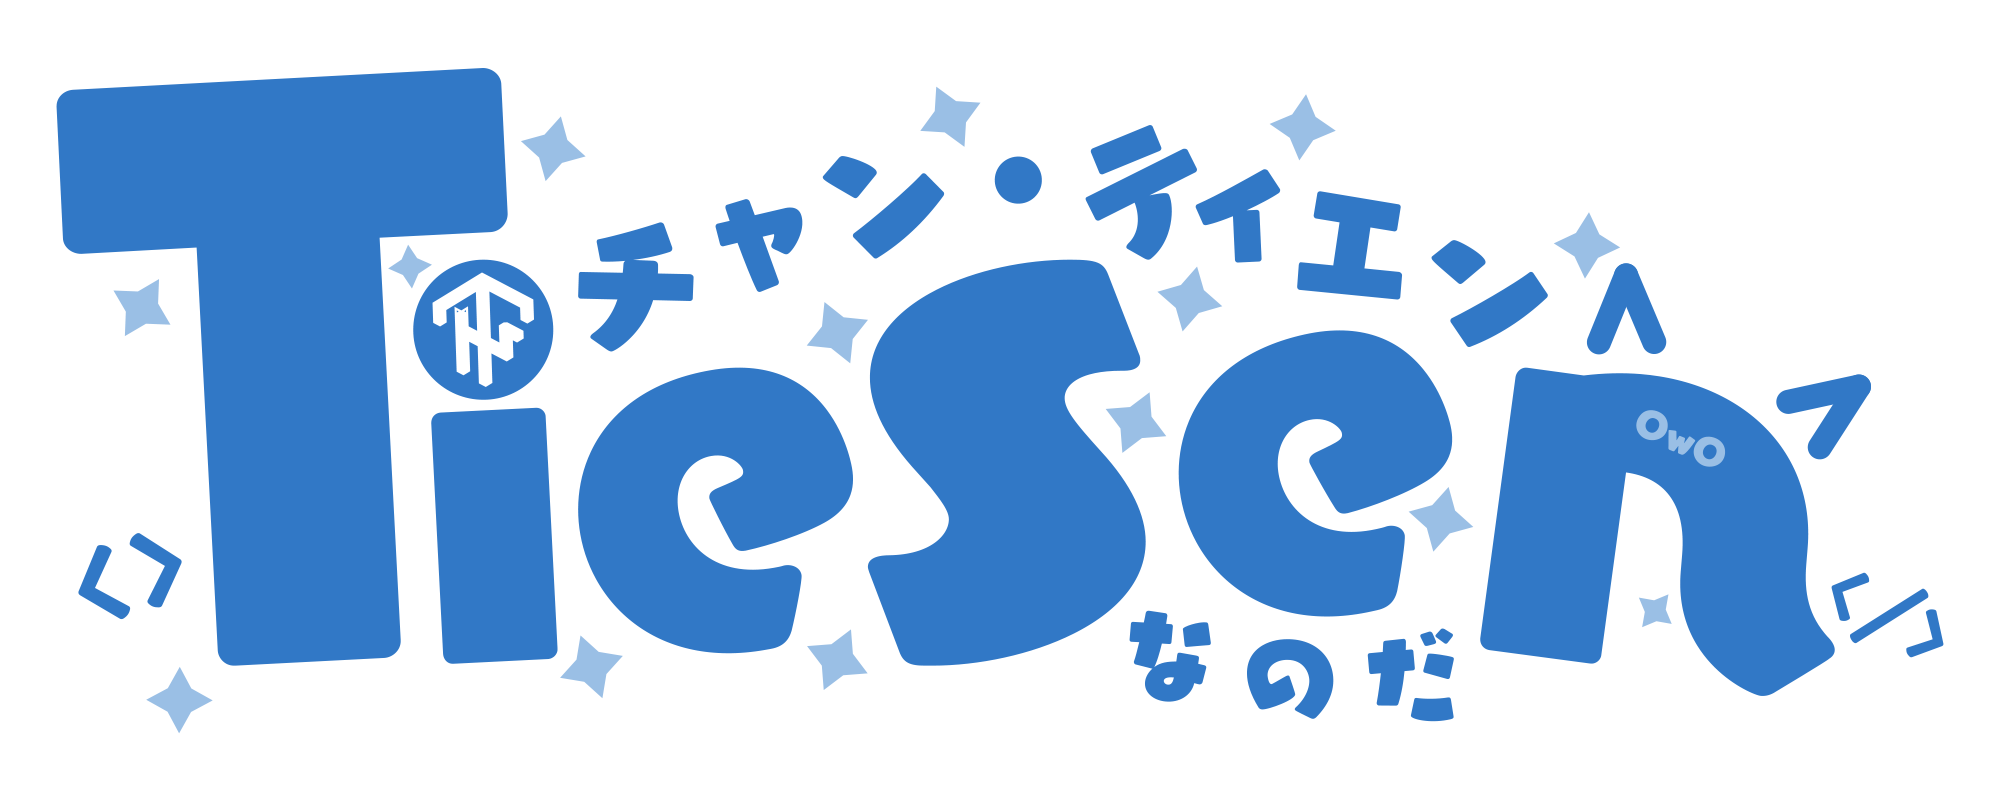
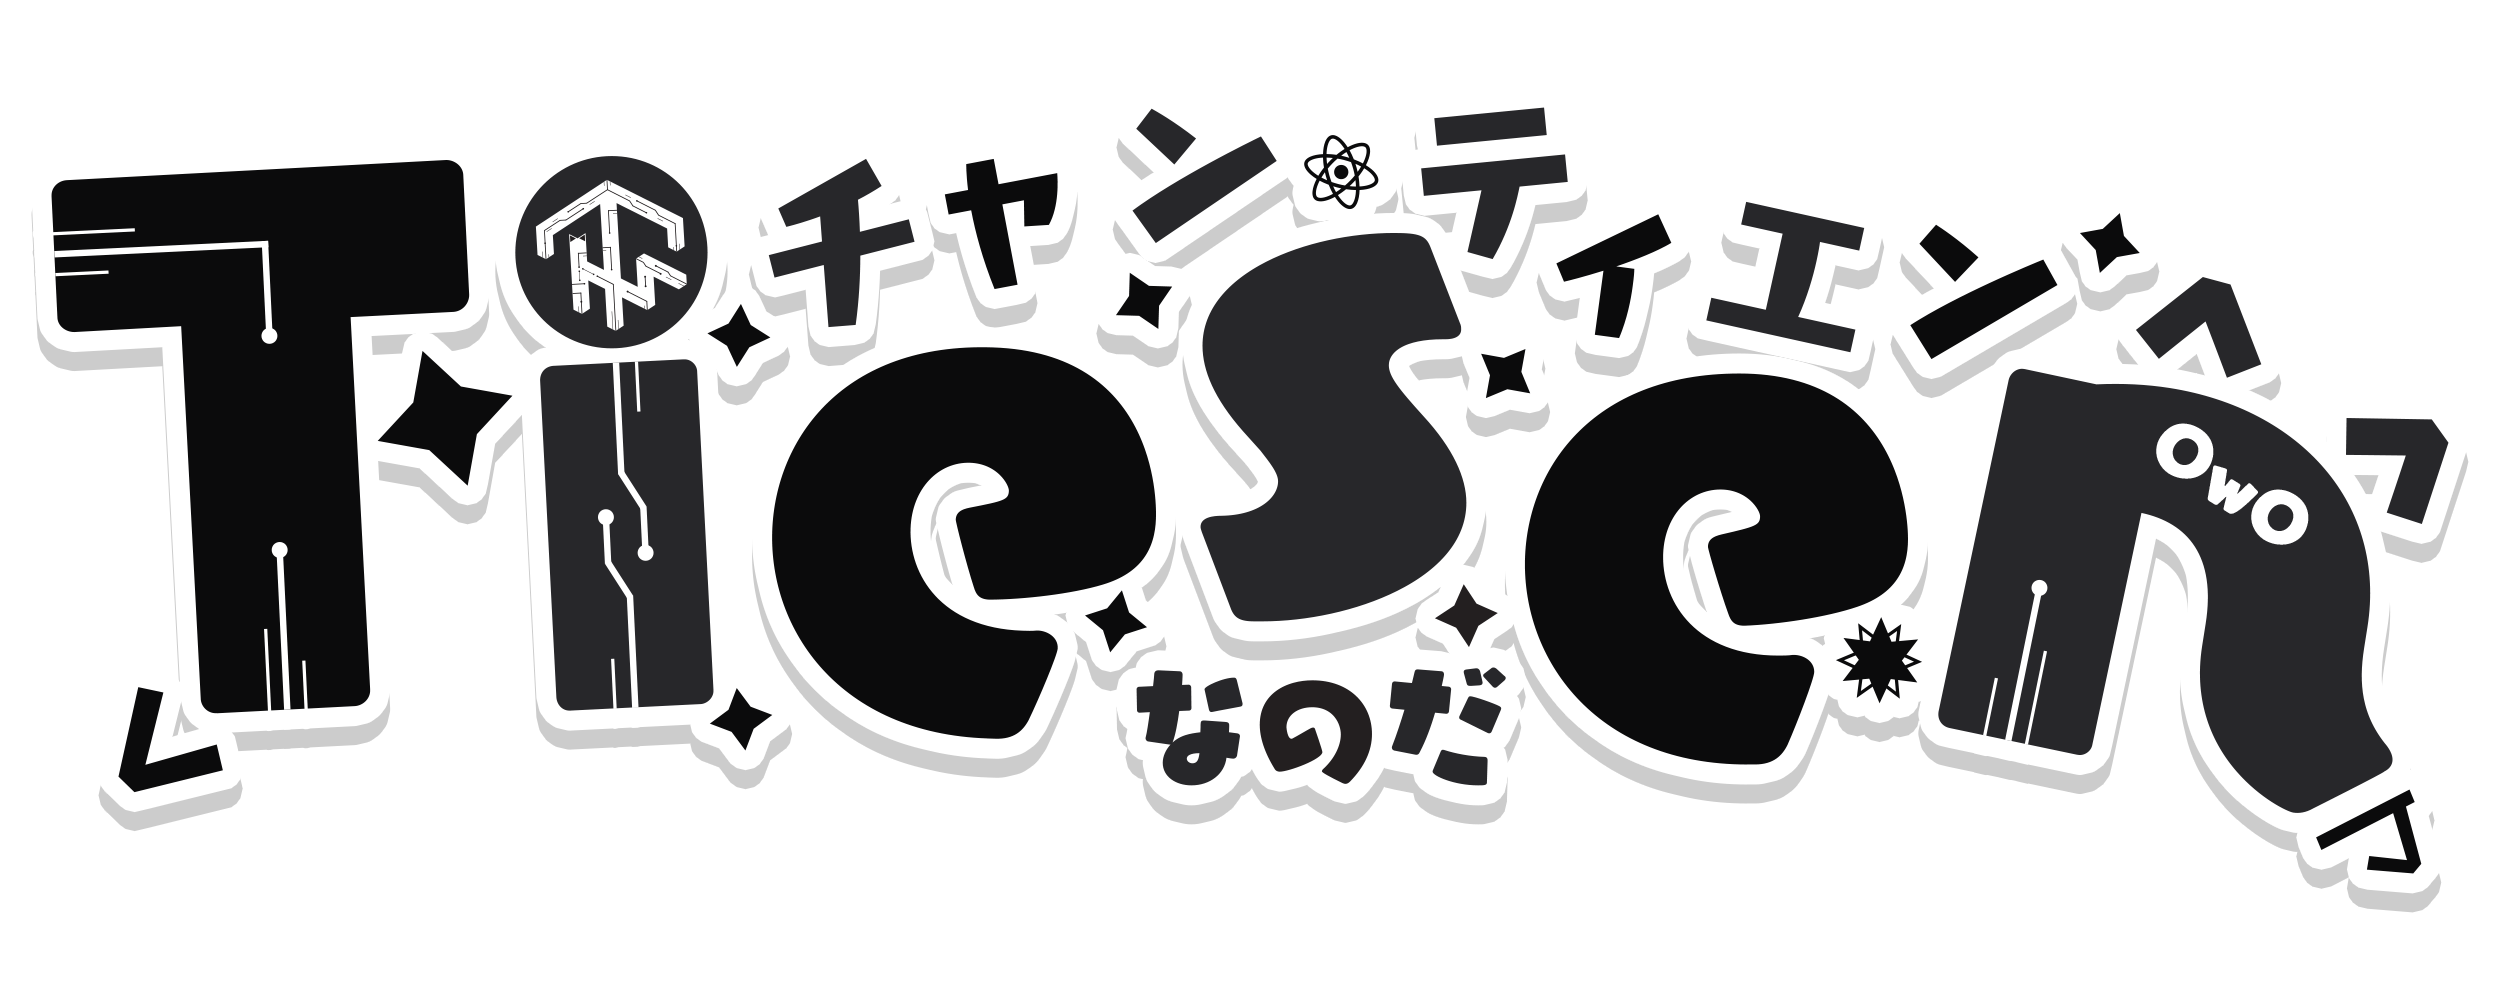
feat: update design and metadata handling
- Added new design images and updated their usage in components
- Enhanced metadata generation for blog and 404 pages
- Removed unused styles and images
- Updated dependencies in package.json

diff --git a/app/(server)/og/route.tsx b/app/(server)/og/route.tsx
@@ -1,0 +1,40 @@
+import { ImageResponse } from 'next/og'
+import type { NextRequest } from 'next/server'
+
+import { getBaseUrl } from '@/lib/site'
+
+interface Props {
+  params: {
+    title?: string
+    desc?: string
+  }
+}
+
+export const runtime = 'edge'
+
+export const GET = async (_: NextRequest, { params }: Props): Promise<ImageResponse> => {
+  const title = params.title ?? 'Tiesen'
+  const description = params.desc ?? 'My personal website.'
+
+  const style = {
+    width: '33.333%',
+    marginRight: '2rem',
+    filter: 'invert(1)',
+    WebkitFilter: 'invert(1)',
+  }
+
+  return new ImageResponse(
+    (
+      <div tw="relative w-full h-full px-28 flex items-center justify-center bg-black text-white">
+        {/*  eslint-disable-next-line @next/next/no-img-element */}
+        <img alt="Tiesen" src={`${getBaseUrl()}/imgs/logo.svg`} style={style} />
+
+        <div tw="w-2/3 flex flex-col">
+          <h2 tw="text-6xl capitalize">{title}</h2>
+          <p tw="text-2xl">{description}</p>
+        </div>
+      </div>
+    ),
+    { width: 1200, height: 630 },
+  )
+}

diff --git a/components/footer.tsx b/components/footer.tsx
@@ -8,7 +8,7 @@ export const Footer: React.FC = () => (
   <footer className="border-t py-12 lg:py-16">
     <div className="container grid grid-cols-1 gap-4 pb-8 md:grid-cols-3">
       <Link href="/" className="flex items-center gap-2 place-self-start text-xl font-bold">
-        <div className="size-10 rounded-lg border-2 p-2">
+        <div className="size-12 rounded-lg border p-2">
           <Image
             src="/imgs/logo.svg"
             alt="Tiesen"
@@ -39,7 +39,7 @@ export const Footer: React.FC = () => (
             href={social.href}
             target="_blank"
             rel="noopener noreferrer"
-            className="transition-colors ease-linear hover:text-yuki"
+            className="transition-opacity ease-linear hover:opacity-50"
           >
             <social.icon />
           </a>
@@ -51,7 +51,7 @@ export const Footer: React.FC = () => (
       </ul>
     </div>
 
-    <hr className="border-1 mx-auto w-4/5" />
+    <hr />
 
     <div className="container flex items-center justify-center pt-8">
       <p className="text-muted-foreground">

diff --git a/components/landing/about-section/view-more.tsx b/components/landing/about-section/view-more.tsx
@@ -4,17 +4,13 @@ import Link from 'next/link'
 export const ViewMore: React.FC = () => (
   <div className="grid grid-cols-1 gap-4 text-xl font-bold capitalize md:grid-cols-2">
     {['projects', 'blog'].map((tab) => (
-      <Link
-        href={`/${tab as 'projects' | 'blog'}`}
-        key={tab}
-        className="group flex items-center text-yuki"
-      >
+      <Link href={`/${tab as 'projects' | 'blog'}`} key={tab} className="group flex items-center">
         {tab}
 
         <div className="ml-2 h-[2px] flex-grow">
-          <div className="h-full w-0 bg-yuki transition-all ease-linear group-hover:w-full" />
+          <div className="h-full w-0 bg-primary transition-all ease-linear group-hover:w-full" />
         </div>
-        <ChevronRightIcon className="-ml-4 text-yuki opacity-0 transition-opacity ease-linear group-hover:opacity-100" />
+        <ChevronRightIcon className="-ml-4 opacity-0 transition-opacity ease-linear group-hover:opacity-100" />
       </Link>
     ))}
   </div>

diff --git a/app/(main)/projects/page.tsx b/app/(main)/projects/page.tsx
@@ -16,6 +16,7 @@ export const metadata: Metadata = {
 
 const Page: NextPage = async () => {
   const projects = await import('@/lib/data.json').then((data) => data.projects)
+  const designs = await import('@/lib/data.json').then((data) => data.designs)
 
   return (
     <main className="container my-4 flex-1">
@@ -31,14 +32,14 @@ const Page: NextPage = async () => {
       <hr className="mx-auto my-4 w-11/12 rounded-full" />
 
       <section className="space-y-4">
-        {Array.from({ length: 5 }).map((_, i) => (
+        {designs.map(({ name, src }) => (
           <Image
-            key={`design-${i + 1}`}
-            src={`/design/${i + 1}.png`}
-            alt={`Design ${i + 1}`}
+            key={name}
+            src={src}
+            alt={name}
             className="rounded-lg object-cover shadow-lg"
-            width={1920}
-            height={1080}
+            width={3000}
+            height={1000}
           />
         ))}
       </section>

diff --git a/components/landing/home-section/buttons.tsx b/components/landing/home-section/buttons.tsx
@@ -5,13 +5,14 @@ import { Button } from '@/components/ui/button'
 export const Buttons: React.FC = () => (
   <div className="grid grid-cols-2 gap-8  *:font-bold sm:*:text-lg">
     <Button
-      className="animate-shimmer bg-[linear-gradient(110deg,var(--from),45%,var(--to),55%,var(--from))] bg-[length:200%_100%] text-white"
+      size="lg"
+      className="animate-shimmer bg-[linear-gradient(110deg,hsl(var(--primary)),45%,hsl(var(--muted-foreground)),55%,hsl(var(--primary)))] bg-[length:200%_100%] transition-colors"
       asChild
     >
       <Link href="/#cta">Contact Me</Link>
     </Button>
 
-    <Button variant="outline" asChild>
+    <Button size="lg" variant="outline" asChild>
       <Link href="/cv.pdf" target="_blank" rel="noopener noreferrer" download="cv.pdf">
         Download CV
       </Link>

diff --git a/app/(main)/opengraph-image.tsx b/app/(main)/opengraph-image.tsx
@@ -1,0 +1,29 @@
+import { getBaseUrl } from '@/lib/site'
+import { ImageResponse } from 'next/og'
+
+// Route segment config
+export const runtime = 'edge'
+
+// Image metadata
+export const alt = 'Tiesen'
+export const size = {
+  width: 1200,
+  height: 630,
+}
+
+export const contentType = 'image/png'
+
+// Image generation
+export default async function Image() {
+  const image = `${getBaseUrl()}/imgs/tiesen.png`
+
+  return new ImageResponse(
+    (
+      <div tw="w-full h-full flex justify-center items-center bg-black text-white">
+        {/* eslint-disable-next-line @next/next/no-img-element */}
+        <img src={image} alt={alt} tw="w-5/6" />
+      </div>
+    ),
+    { ...size },
+  )
+}

diff --git a/app/(main)/projects/[slug]/page.tsx b/app/(main)/projects/[slug]/page.tsx
@@ -2,6 +2,7 @@ import type { NextPage, ResolvingMetadata } from 'next'
 import { notFound } from 'next/navigation'
 
 import { getBaseUrl } from '@/lib/site'
+import Image from 'next/image'
 
 interface Props {
   params: { slug: string }
@@ -42,7 +43,7 @@ const Page: NextPage<Props> = async ({ params }) => {
         {project.stack.map((tag) => (
           <li
             key={tag}
-            className="inline-block rounded-full bg-primary px-3 py-1 text-sm font-semibold text-primary-foreground"
+            className="inline-block cursor-default rounded-full bg-primary px-3 py-1 text-sm font-semibold text-primary-foreground hover:bg-primary/80"
           >
             {tag}
           </li>

diff --git a/app/not-found.tsx b/app/not-found.tsx
@@ -4,13 +4,18 @@ import Image from 'next/image'
 
 import { Button } from '@/components/ui/button'
 
+export const metadata = {
+  title: '404',
+  description: 'Page not found',
+}
+
 const Page: NextPage = () => (
   <main className="flex h-[65dvh] flex-1 flex-col items-center justify-center gap-4">
     <Image src="/imgs/404.png" width={1920 / 2} height={1080 / 2} alt="404" />
 
     <Button
-      className="bg-yuki text-xl font-bold text-white transition-transform ease-linear hover:scale-105"
       size="lg"
+      className="bg-gradient-to-b from-primary to-muted-foreground text-xl font-bold"
       asChild
     >
       <Link href="/">Take me home</Link>

diff --git a/app/blog/[...slug]/page.tsx b/app/blog/[...slug]/page.tsx
@@ -16,14 +16,19 @@ export const generateMetadata = async ({ params }: Props, parent: ResolvingMetad
   if (!blog) return notFound()
 
   const previousImages = (await parent).openGraph?.images ?? []
+  const images = [
+    blog.data.image,
+    `/og?title=${blog.data.title}&desc=${blog.data.description}`,
+    ...previousImages,
+  ]
 
   return {
     title: blog.data.title,
     description: blog.data.description,
     openGraph: {
+      images,
       type: 'article',
       url: `${getBaseUrl()}/${blog.url}`,
-      images: [blog.data.image, ...previousImages],
     },
     alternates: { canonical: `${getBaseUrl()}/${blog.url}` },
   }

diff --git a/components/landing/home-section/index.tsx b/components/landing/home-section/index.tsx
@@ -9,14 +9,13 @@ export const HomeSection: React.FC = () => (
     id="home"
     className="flex min-h-dvh flex-col items-center justify-center gap-16 px-8 md:gap-8"
   >
-    <div className="h-72 w-full">
-      <Image
-        src="/imgs/tiesen.png"
-        alt="Tiesen"
-        className="object-scale-down drop-shadow-lg"
-        fill
-      />
-    </div>
+    <Image
+      src="/imgs/tiesen.png"
+      alt="Tiesen"
+      className="w-1/2 object-cover"
+      width={2500}
+      height={400}
+    />
 
     <p className="max-w-screen-md text-center text-lg font-medium leading-7 drop-shadow-lg md:text-2xl">
       {description}

diff --git a/tailwind.config.ts b/tailwind.config.ts
@@ -59,17 +59,12 @@ const config = {
           DEFAULT: 'hsl(var(--card))',
           foreground: 'hsl(var(--card-foreground))',
         },
-        yuki: 'var(--yuki)',
       },
       borderRadius: {
         lg: 'var(--radius)',
         md: 'calc(var(--radius) - 2px)',
         sm: 'calc(var(--radius) - 4px)',
       },
-      backgroundImage: {
-        yuki: 'linear-gradient(45deg, var(--from), var(--to))',
-      },
-
       keyframes: {
         marquee: { to: { transform: 'translateX(-50%)' } },
         'marquee-reverse': { to: { transform: 'translateX(-50%)' } },

diff --git a/components/landing/about-section/infomations.tsx b/components/landing/about-section/infomations.tsx
@@ -83,7 +83,7 @@ export const Infomations: React.FC = async () => {
         <tabs.TabsList key={tab.id} className="bg-transparent">
           <tabs.TabsTrigger
             value={tab.id}
-            className="rounded-none border-b-2 border-primary/0 transition-all data-[state=active]:border-yuki data-[state=active]:text-yuki"
+            className="rounded-none border-b-2 border-primary/0 transition-all data-[state=active]:border-primary data-[state=active]:text-primary"
             aria-label={`Switch to ${tab.id}`}
           >
             {tab.label}
